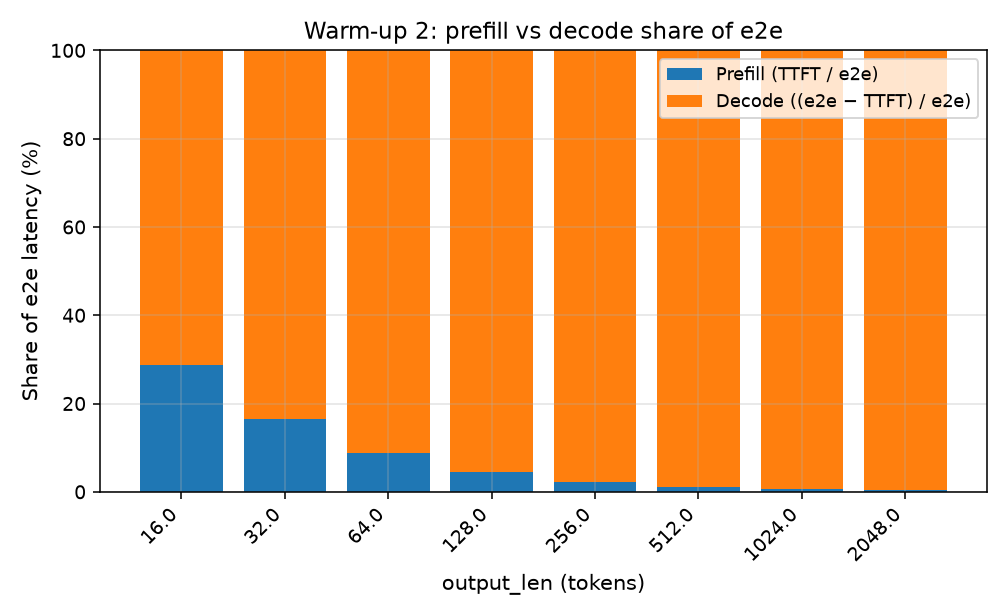
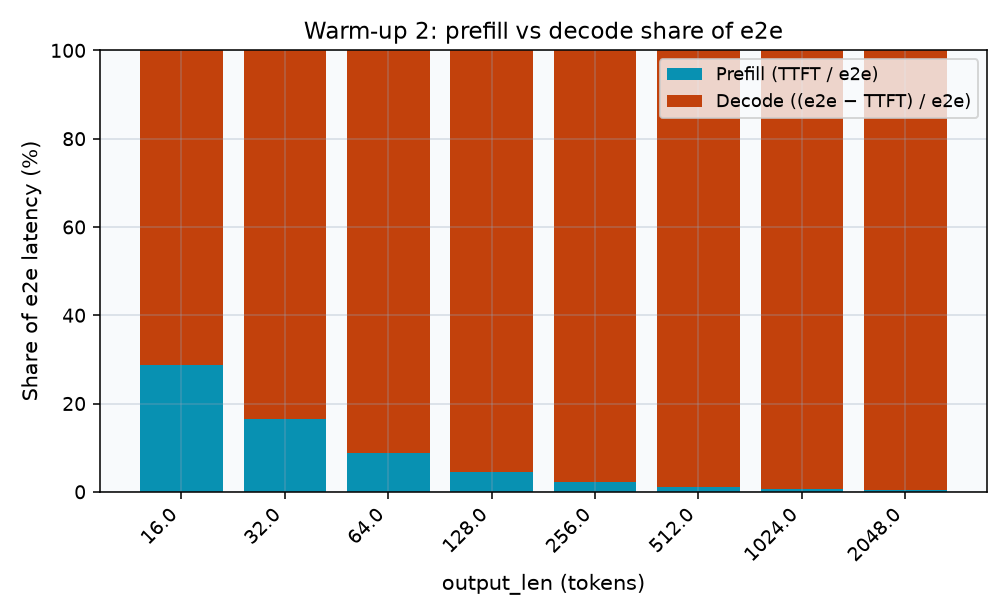
plots updated

diff --git a/lab1/scripts/plot_results.py b/lab1/scripts/plot_results.py
@@ -24,6 +24,24 @@ LAB_DIR = Path(__file__).resolve().parent.parent
 RESULTS_DIR = LAB_DIR / "results"
 PLOTS_DIR = LAB_DIR / "plots"
 
+# Shared palette for every figure (not matplotlib C0/C1 defaults).
+TEAL = "#0F766E"
+AMBER = "#D97706"
+INDIGO = "#4338CA"
+ROSE = "#E11D48"
+CYAN = "#0891B2"
+TERRACOTTA = "#C2410C"
+NAVY = "#1D4ED8"
+CRIMSON = "#BE123C"
+VIOLET = "#7C3AED"
+CHUNK_COLORS = {
+    256: "#0EA5E9",
+    512: "#22C55E",
+    1024: "#EAB308",
+    2048: "#F97316",
+    4096: "#A21CAF",
+}
+
 # e2e_s = ttft + tpot * (output_len - 1). TTFT/TPOT are ms; e2e is seconds.
 def computed_e2e_s(row: pd.Series) -> float:
     return row["ttft_ms"] / 1000.0 + row["tpot_ms"] / 1000.0 * (row["output_len"] - 1)
@@ -36,10 +54,14 @@ def style() -> None:
             "figure.dpi": 140,
             "axes.grid": True,
             "grid.alpha": 0.35,
+            "grid.color": "#94A3B8",
+            "axes.facecolor": "#F8FAFC",
+            "figure.facecolor": "white",
             "axes.titlesize": 12,
             "axes.labelsize": 11,
             "legend.fontsize": 9,
             "lines.markersize": 6,
+            "axes.prop_cycle": plt.cycler(color=list(CHUNK_COLORS.values())),
         }
     )
 
@@ -93,11 +115,12 @@ def add_latency_parts(df: pd.DataFrame) -> pd.DataFrame:
     return out
 
 
-def plot_xy(x, y, xlabel, ylabel, title, path, y2=None, y2label=None) -> None:
+def plot_xy(x, y, xlabel, ylabel, title, path, y2=None, y2label=None,
+            color=TEAL, color2=ROSE) -> None:
     fig, ax = plt.subplots()
-    ax.plot(x, y, "o-", label=ylabel)
+    ax.plot(x, y, "o-", color=color, label=ylabel)
     if y2 is not None:
-        ax.plot(x, y2, "s--", label=y2label)
+        ax.plot(x, y2, "s--", color=color2, label=y2label)
         ax.legend()
     ax.set_xlabel(xlabel)
     ax.set_ylabel(ylabel if y2 is None else "seconds")
@@ -109,8 +132,9 @@ def plot_breakdown(x, prefill_pct, decode_pct, xlabel, title, path, xticklabels=
     fig, ax = plt.subplots()
     labels = xticklabels if xticklabels is not None else [str(v) for v in x]
     idx = range(len(x))
-    ax.bar(idx, prefill_pct, label="Prefill (TTFT / e2e)")
-    ax.bar(idx, decode_pct, bottom=prefill_pct, label="Decode ((e2e − TTFT) / e2e)")
+    ax.bar(idx, prefill_pct, color=CYAN, label="Prefill (TTFT / e2e)")
+    ax.bar(idx, decode_pct, bottom=prefill_pct, color=TERRACOTTA,
+           label="Decode ((e2e − TTFT) / e2e)")
     ax.set_xticks(list(idx), labels, rotation=45, ha="right")
     ax.set_xlabel(xlabel)
     ax.set_ylabel("Share of e2e latency (%)")
@@ -133,12 +157,14 @@ def plot_warmup1() -> None:
         "prompt_len (tokens)", "TTFT (ms)",
         "Warm-up 1: TTFT vs prompt length",
         out / "01_ttft_vs_prompt.png",
+        color=TEAL,
     )
     plot_xy(
         df["prompt_len"], df["tpot_ms"],
         "prompt_len (tokens)", "TPOT (ms)",
         "Warm-up 1: TPOT vs prompt length",
         out / "02_tpot_vs_prompt.png",
+        color=AMBER,
     )
     plot_xy(
         df["prompt_len"], df["e2e_s"],
@@ -147,6 +173,8 @@ def plot_warmup1() -> None:
         out / "03_e2e_computed_vs_reported.png",
         y2=df["computed_e2e_s"],
         y2label="TTFT + TPOT × (output_len − 1)",
+        color=INDIGO,
+        color2=ROSE,
     )
     plot_breakdown(
         df["prompt_len"], df["prefill_pct"], df["decode_pct"],
@@ -169,12 +197,14 @@ def plot_warmup2() -> None:
         "output_len (tokens)", "TTFT (ms)",
         "Warm-up 2: TTFT vs output length",
         out / "01_ttft_vs_output.png",
+        color=TEAL,
     )
     plot_xy(
         df["output_len"], df["tpot_ms"],
         "output_len (tokens)", "TPOT (ms)",
         "Warm-up 2: TPOT vs output length",
         out / "02_tpot_vs_output.png",
+        color=AMBER,
     )
     plot_xy(
         df["output_len"], df["e2e_s"],
@@ -183,6 +213,8 @@ def plot_warmup2() -> None:
         out / "03_e2e_computed_vs_reported.png",
         y2=df["computed_e2e_s"],
         y2label="TTFT + TPOT × (output_len − 1)",
+        color=INDIGO,
+        color2=ROSE,
     )
     plot_breakdown(
         df["output_len"], df["prefill_pct"], df["decode_pct"],
@@ -208,12 +240,14 @@ def plot_exp1() -> None:
         "N (batch size)", "TTFT (ms)",
         "Experiment 1: TTFT vs batch size",
         out / "01_ttft_vs_batch.png",
+        color=TEAL,
     )
     plot_xy(
         df["N"], df["tpot_ms"],
         "N (batch size)", "TPOT (ms)",
         "Experiment 1: TPOT vs batch size",
         out / "02_tpot_vs_batch.png",
+        color=AMBER,
     )
 
 
@@ -230,8 +264,10 @@ def plot_exp2() -> None:
     req_b0 = req_b[req_b["request"] == 0].iloc[0]
 
     fig, ax = plt.subplots()
-    ax.plot(tok_a["token"], tok_a["gap_ms"], "-", label="4a baseline (request 0 alone)")
-    ax.plot(tok_b["token"], tok_b["gap_ms"], "-", label="4b + second request at t=1.0s")
+    ax.plot(tok_a["token"], tok_a["gap_ms"], "-", color=NAVY, linewidth=2.2,
+            label="4a baseline (request 0 alone)")
+    ax.plot(tok_b["token"], tok_b["gap_ms"], "-", color=CRIMSON, linewidth=1.4, alpha=0.9,
+            label="4b + second request at t=1.0s")
     ax.set_xlabel("Output token index (request 0)")
     ax.set_ylabel("Token gap (ms)")
     ax.set_title("Experiment 2 / 4a–4b: request 0 token gaps")
@@ -240,8 +276,10 @@ def plot_exp2() -> None:
 
     fig, ax = plt.subplots()
     labels = ["TPOT (ms)", "Worst gap (ms)"]
-    ax.bar([0, 1], [req_a["tpot_ms"], req_a["worst_gap_ms"]], width=0.35, label="4a baseline")
-    ax.bar([0.35, 1.35], [req_b0["tpot_ms"], req_b0["worst_gap_ms"]], width=0.35, label="4b interrupted")
+    ax.bar([0, 1], [req_a["tpot_ms"], req_a["worst_gap_ms"]], width=0.35,
+           color=NAVY, label="4a baseline")
+    ax.bar([0.35, 1.35], [req_b0["tpot_ms"], req_b0["worst_gap_ms"]], width=0.35,
+           color=CRIMSON, label="4b interrupted")
     ax.set_xticks([0.175, 1.175], labels)
     ax.set_ylabel("milliseconds")
     ax.set_title("Experiment 2 / 4a–4b: request 0 TPOT and worst token gap")
@@ -262,11 +300,11 @@ def plot_exp2() -> None:
 
     fig, ax1 = plt.subplots()
     ax2 = ax1.twinx()
-    ax1.plot(df4c["second_prompt"], df4c["worst_gap_ms"], "o-", color="C0", label="Worst gap")
-    ax2.plot(df4c["second_prompt"], df4c["tpot_ms"], "s--", color="C1", label="TPOT")
+    ax1.plot(df4c["second_prompt"], df4c["worst_gap_ms"], "o-", color=VIOLET, label="Worst gap")
+    ax2.plot(df4c["second_prompt"], df4c["tpot_ms"], "s--", color=TEAL, label="TPOT")
     ax1.set_xlabel("Second request prompt_len (tokens)")
-    ax1.set_ylabel("Request 0 worst gap (ms)", color="C0")
-    ax2.set_ylabel("Request 0 TPOT (ms)", color="C1")
+    ax1.set_ylabel("Request 0 worst gap (ms)", color=VIOLET)
+    ax2.set_ylabel("Request 0 TPOT (ms)", color=TEAL)
     ax1.set_title("Experiment 2 / 4c: request 0 vs interrupting prompt length")
     lines = ax1.get_lines() + ax2.get_lines()
     ax1.legend(lines, [line.get_label() for line in lines], loc="best")
@@ -283,7 +321,8 @@ def plot_exp2() -> None:
     fig, ax = plt.subplots()
     for chunk, part in df4d.groupby("chunk_size"):
         part = part.sort_values("second_prompt")
-        ax.plot(part["second_prompt"], part["worst_gap_ms"], "o-", label=f"chunk {chunk}")
+        ax.plot(part["second_prompt"], part["worst_gap_ms"], "o-",
+                color=CHUNK_COLORS[int(chunk)], label=f"chunk {chunk}")
     ax.set_xlabel("Second request prompt_len (tokens)")
     ax.set_ylabel("Request 0 worst gap (ms)")
     ax.set_title("Experiment 2 / 4d: request 0 worst gap vs chunk size")
@@ -293,7 +332,8 @@ def plot_exp2() -> None:
     fig, ax = plt.subplots()
     for chunk, part in df4d.groupby("chunk_size"):
         part = part.sort_values("second_prompt")
-        ax.plot(part["second_prompt"], part["tpot_ms"], "o-", label=f"chunk {chunk}")
+        ax.plot(part["second_prompt"], part["tpot_ms"], "o-",
+                color=CHUNK_COLORS[int(chunk)], label=f"chunk {chunk}")
     ax.set_xlabel("Second request prompt_len (tokens)")
     ax.set_ylabel("Request 0 TPOT (ms)")
     ax.set_title("Experiment 2 / 4d: request 0 TPOT vs chunk size")
